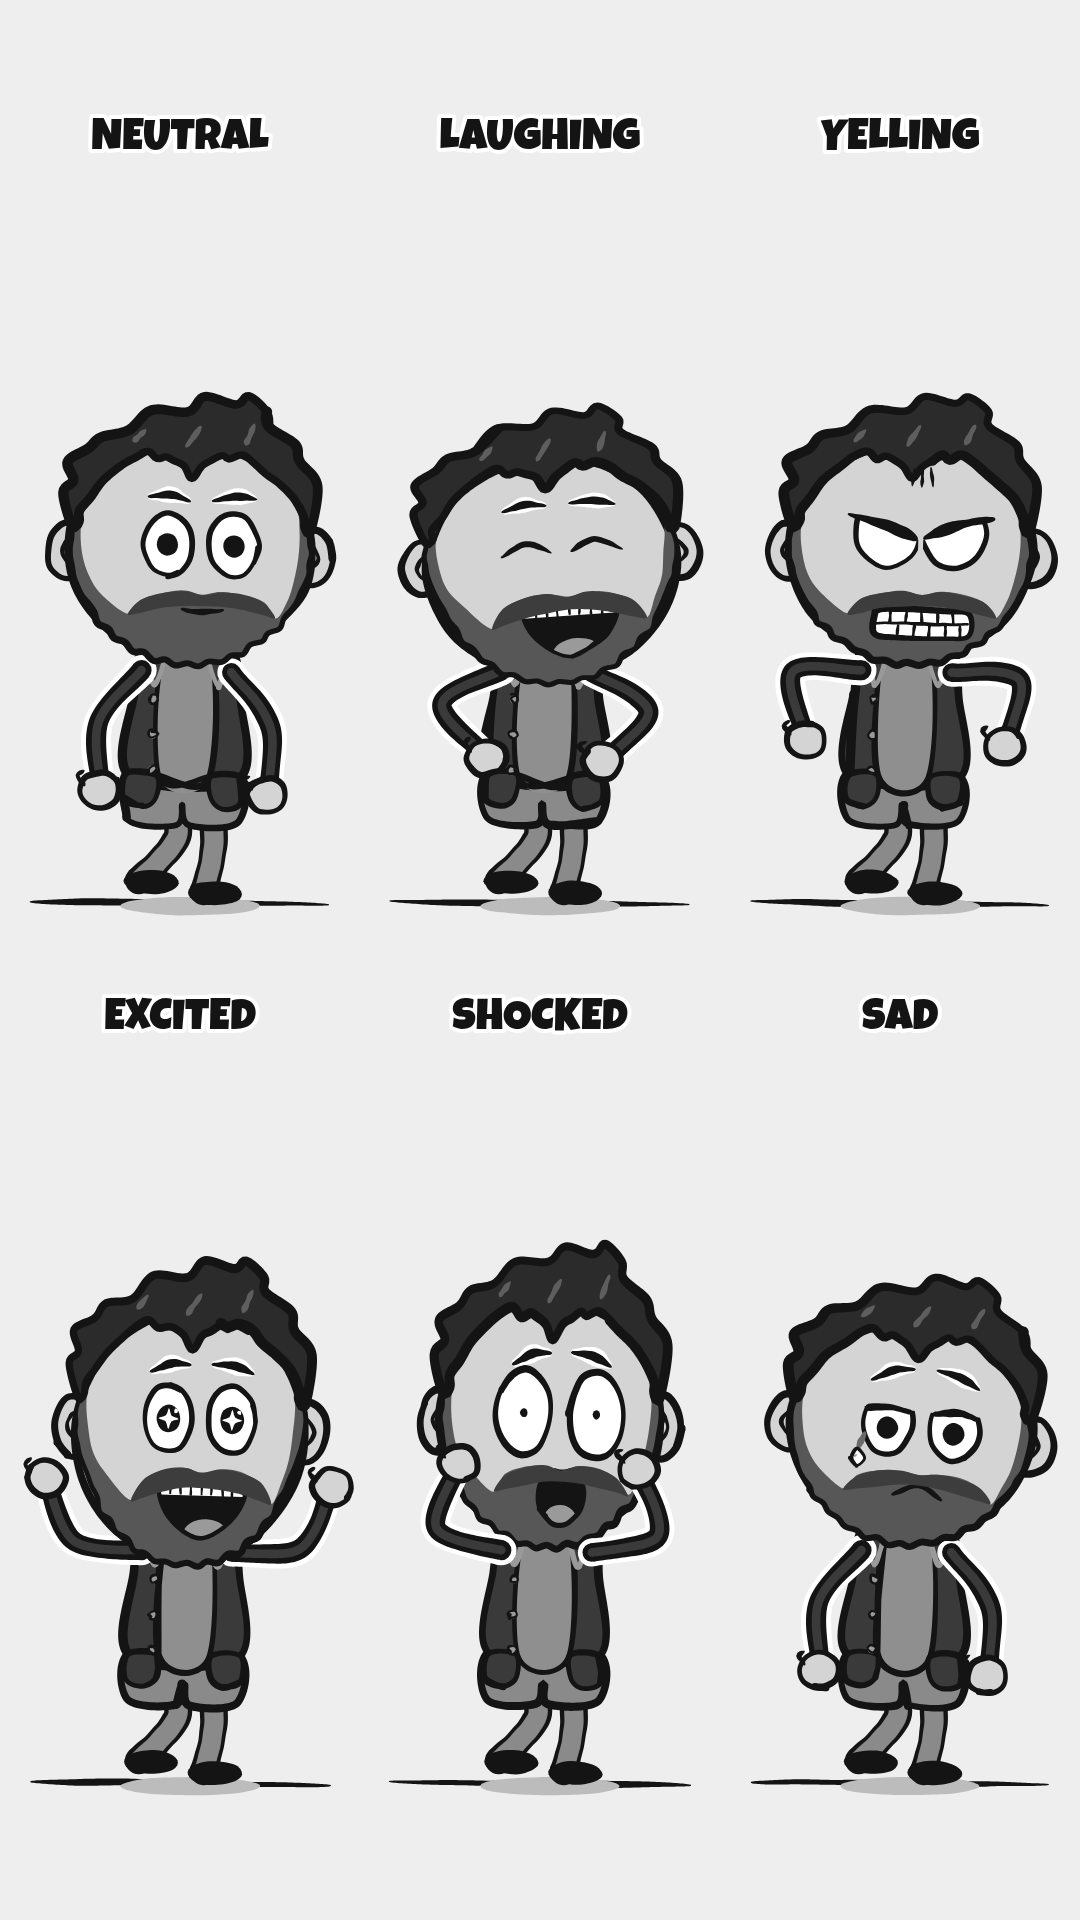
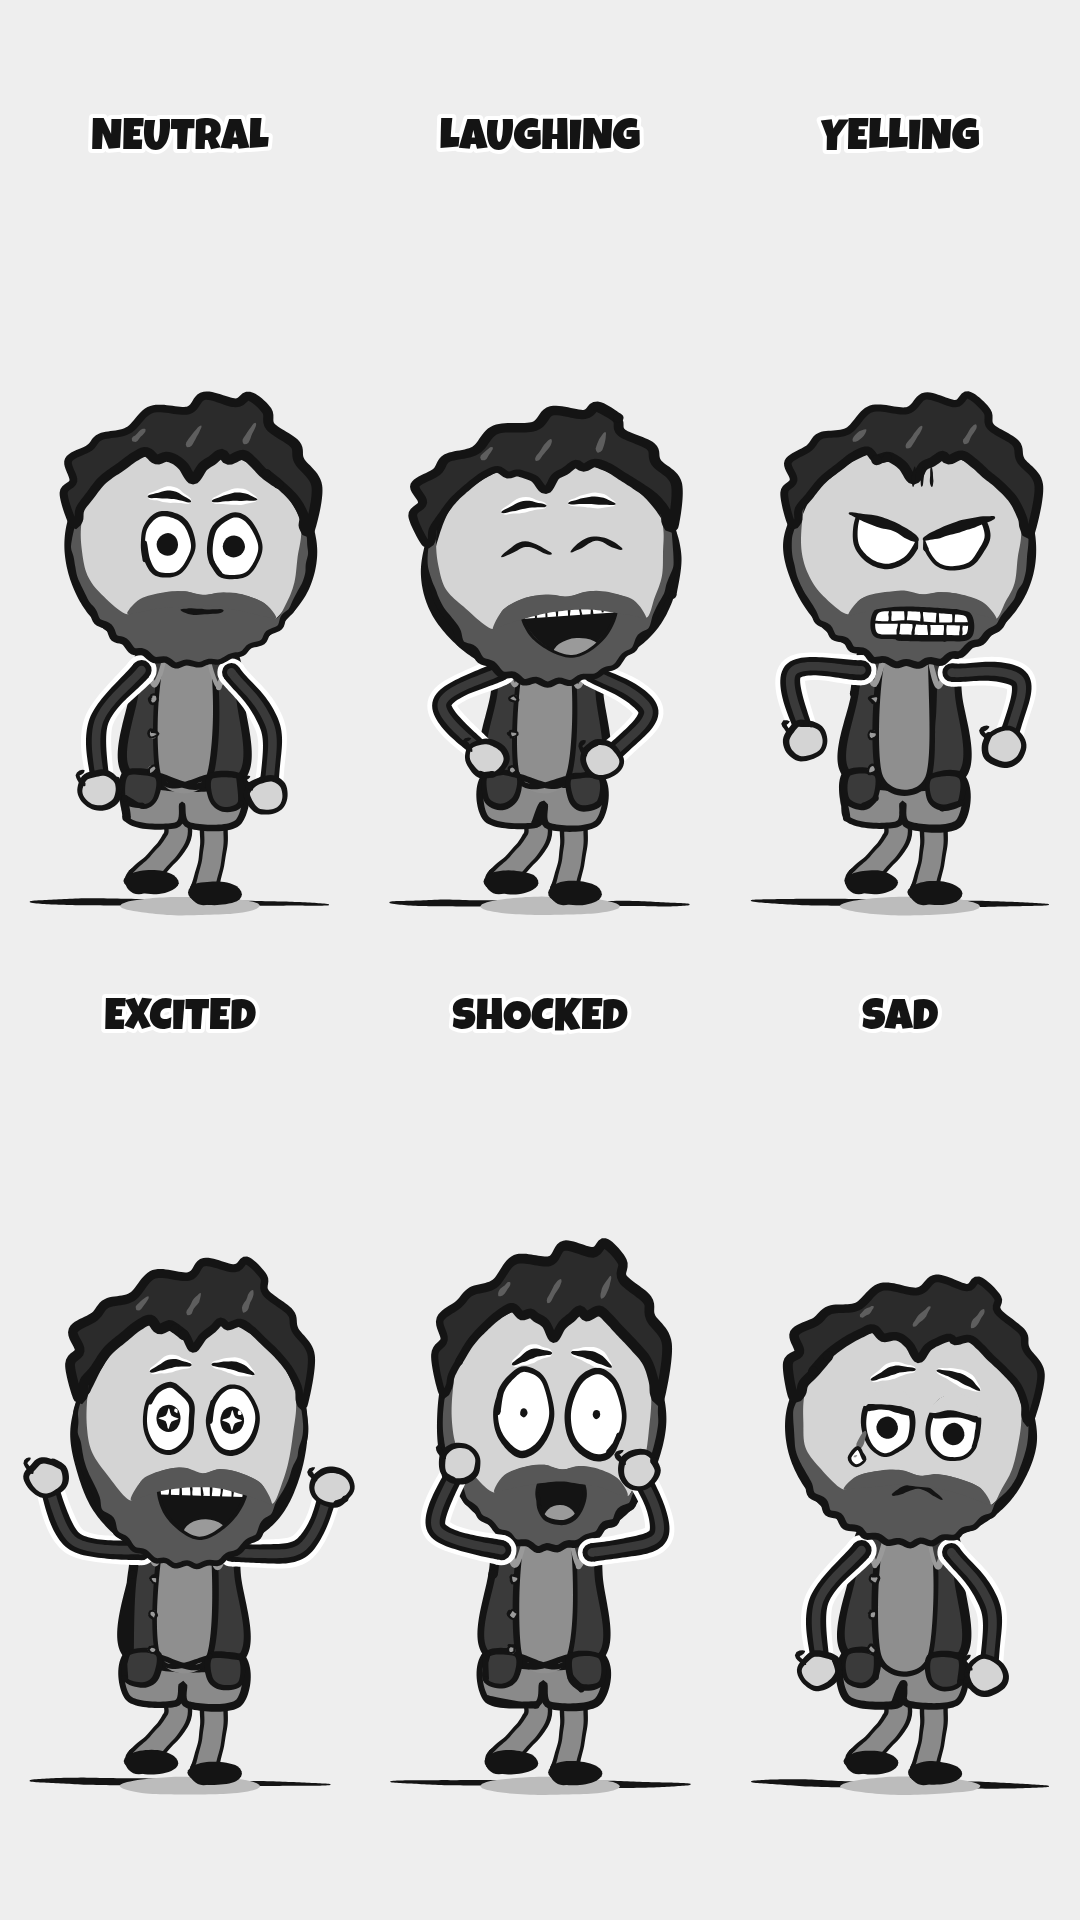
Squeex: moustache in the beard's own grey (one-tone beard)
STYLE.md Beards: the moustache shares the beard's grey. Re-rendered the
Squeex sheet and beard stills.

Claude-Session: https://claude.ai/code/session_01RKmGcx8q1V1rbfKyx6bNrn

diff --git a/web/cameos.js b/web/cameos.js
@@ -1309,11 +1309,11 @@ const Cameos = (() => {
   // moustache corners, the moustache on the upper lip, a rounded full chin.
   // Ink only at the edges (short strokes along the cheek line and the bottom),
   // a flat fill inside. It stretches with the jaw; the mouth cuts into it.
-  const FULLB = '#575757', STACHE = '#3d3d3d';
+  const FULLB = '#575757', STACHE = FULLB;   // the moustache is the beard's own grey (user decision); its shape still shows in the beard's top edge
   // mouths the moustache goes under rather than over: his wide grin should show whole
   const STACHE_UNDER = new Set(['grinwide']);
   const drawStache = (ctx, P, { stacheTop, lip }) => {
-    fill(ctx, P([...stacheTop, ...lip]), STACHE, 1);   // set apart from the beard by tone only; the mouth itself is the lip line
+    fill(ctx, P([...stacheTop, ...lip]), STACHE, 1);   // the mouth itself is the lip line
   };
   // on a shocked gape the eyes are huge, so the moustache sits a little lower
   const FULL_MOUTH_DY = 14;   // his mouth sits a little lower, under the moustache, leaving bare cheek under the eyes

diff --git a/STYLE.md b/STYLE.md
@@ -63,8 +63,9 @@ skin) or as scraggly hair (long, uneven strokes). Squeex's beard
   bottom edge follows the head outline as a rounded curve with small, regular
   scallops, never spikes. The edge round the mouth stays clean: nothing
   intrudes into the mouth opening.
-- Moustache: a band over the upper lip, set apart from the beard by a slightly
-  darker tone, joining the beard at the mouth corners. Mouths open beneath it.
+- Moustache: a band over the upper lip in the same grey as the beard, so the
+  two read as one beard; its shape shows in the beard's top edge, and it
+  joins the beard at the mouth corners. Mouths open beneath it.
 - Sideburns start narrow at the temples, under the hair, and widen gradually
   toward the jaw. A sideburn the same thickness all the way down frames the
   face like a hood.
